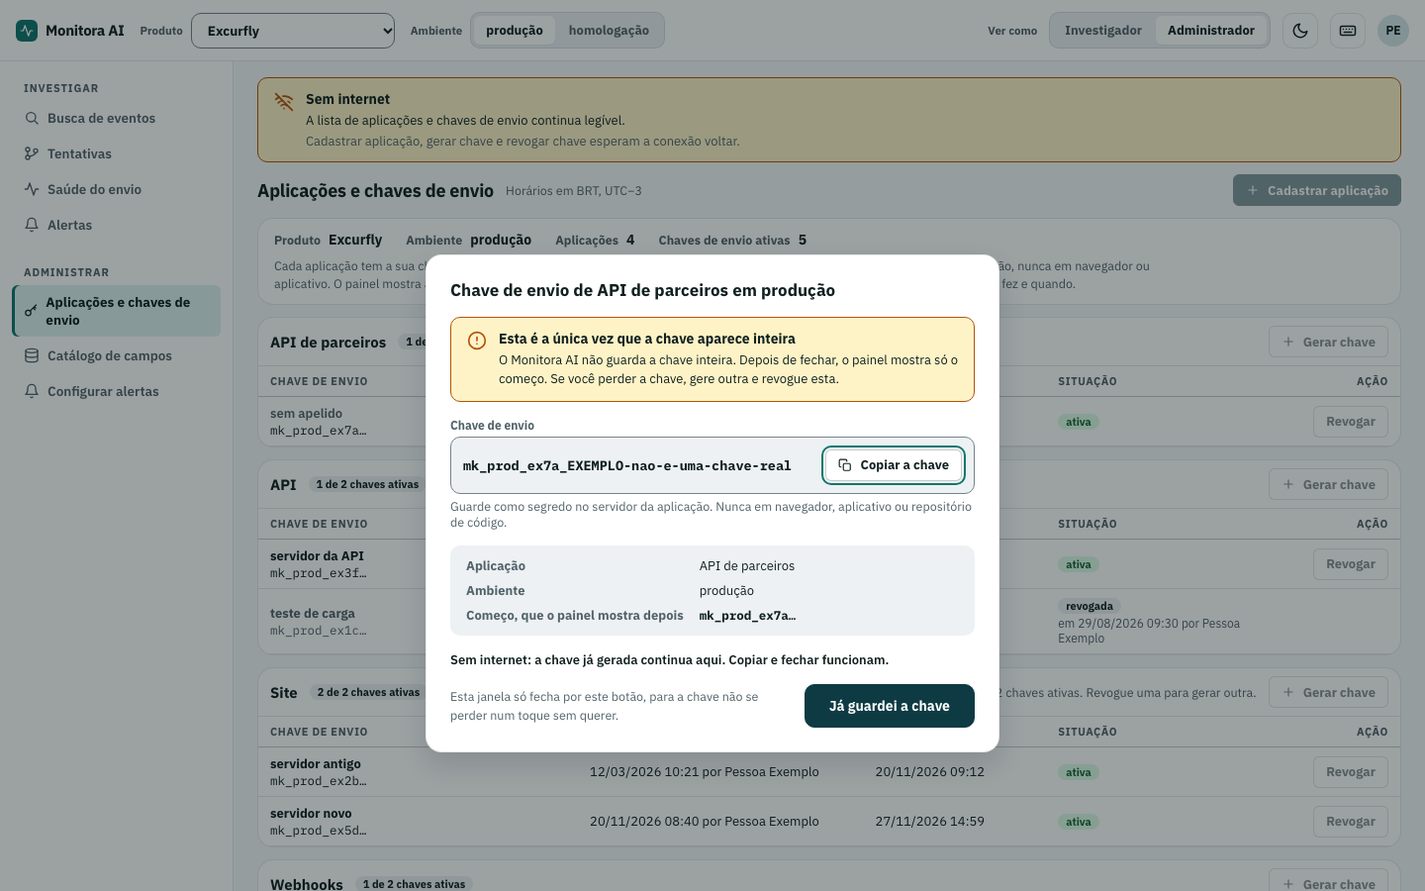
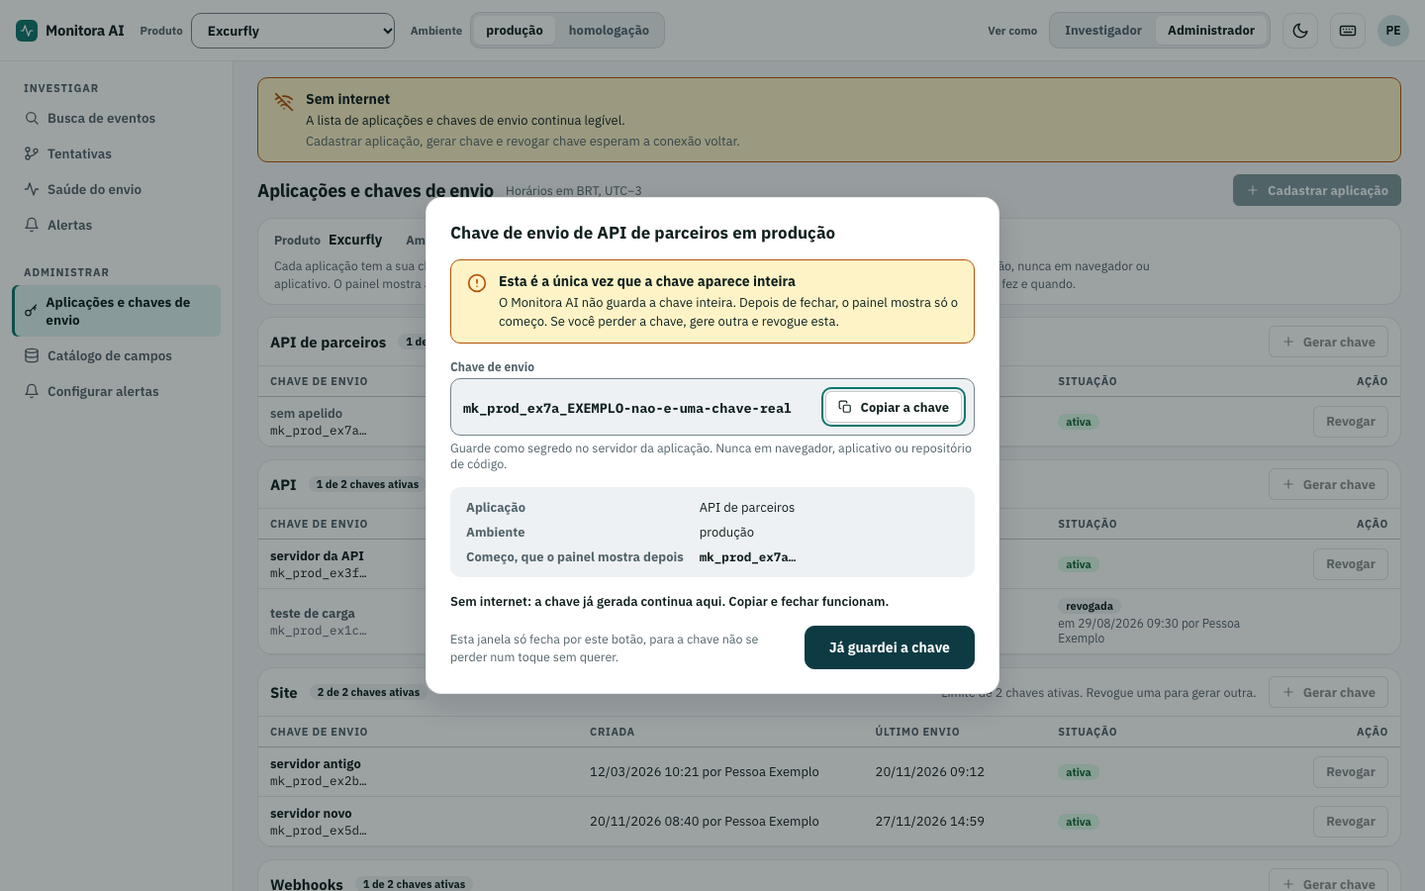
feat(prototipo): correções da auditoria do lote Administrar (#71, #72, #73)
- F1: botão apagado não age mais ao clique. BotaoDeIcone sem desestruturação
  com resto (um só _excluded, o de ui.jsx); Press espalha o resto antes da
  guarda; as ações de aplicações e chaves conferem de novo se podem agir.
- F2: JanelaDeDialogo presa à área visível, com altura máxima, miolo que rola
  e título e ações sempre à vista (prop acoes).
- F3: com uma janela de diálogo aberta, os atalhos da casca não disparam, e
  só a janela de cima responde ao teclado.
- F4: prints do vazio da tentativa refeitos; o período olhado (30 dias)
  contém a perda das 13:00, o texto está coerente.
- F5: "histórico" sai do catálogo de campos: "fica na auditoria, com quem
  fez e quando".

Changed region(s): [[0.2812, 0.2178, 0.7188, 0.8711]]

diff --git a/prototipos/monitora-ai/components/aplicacoes.jsx b/prototipos/monitora-ai/components/aplicacoes.jsx
@@ -240,6 +240,14 @@ const JanelaDePedirChave = ({ traduzir, aplicacao, nomeDoProduto, nomeDoAmbiente
       titulo={ehCadastro
         ? traduzir('aplicacaoNovaTitulo', { produto: nomeDoProduto, ambiente: nomeDoAmbiente })
         : traduzir('chaveNovaTitulo', { aplicacao: aplicacao.nome, ambiente: nomeDoAmbiente })}
+      acoes={(
+        <div style={ESTILO_DO_RODAPE_DA_JANELA}>
+          <Button variant="secondary" disabled={estado === 'disabled'} onClick={aoFechar}>{traduzir('cancelar')}</Button>
+          <Button variant="primary" loading={gerando} disabled={parado || semInternet} className={classeDoBotao} onClick={aoConfirmar}>
+            {gerando ? traduzir('chaveGerando') : traduzir(ehCadastro ? 'aplicacaoNovaConfirmar' : 'chaveNovaConfirmar')}
+          </Button>
+        </div>
+      )}
     >
       <p style={{ ...ESTILO_DO_TEXTO_DE_APOIO, fontSize: 13 }}>
         {ehCadastro ? traduzir('aplicacaoNovaAmbienteNota', { ambiente: nomeDoAmbiente }) : traduzir('chaveNovaNota')}
@@ -265,12 +273,6 @@ const JanelaDePedirChave = ({ traduzir, aplicacao, nomeDoProduto, nomeDoAmbiente
       />
       {ehCadastro && <p style={ESTILO_DO_TEXTO_DE_APOIO}>{traduzir('aplicacaoNovaProximoPasso')}</p>}
       {semInternet && <p role="status" style={ESTILO_DA_NOTA_DE_ESPERA}>{traduzir(ehCadastro ? 'aplicacaoNovaSemInternet' : 'chaveNovaSemInternet')}</p>}
-      <div style={ESTILO_DO_RODAPE_DA_JANELA}>
-        <Button variant="secondary" disabled={estado === 'disabled'} onClick={aoFechar}>{traduzir('cancelar')}</Button>
-        <Button variant="primary" loading={gerando} disabled={parado || semInternet} className={classeDoBotao} onClick={aoConfirmar}>
-          {gerando ? traduzir('chaveGerando') : traduzir(ehCadastro ? 'aplicacaoNovaConfirmar' : 'chaveNovaConfirmar')}
-        </Button>
-      </div>
     </JanelaDeDialogo>
   );
 };
@@ -285,20 +287,32 @@ const JanelaDaChaveGerada = ({ traduzir, nomeDaAplicacao, idDoAmbiente, nomeDoAm
 
   if (estado === 'error') {
     return (
-      <JanelaDeDialogo papel="alertdialog" largura={LARGURA_DA_JANELA_DA_CHAVE} titulo={titulo} aoFechar={aoFechar}>
+      <JanelaDeDialogo
+        papel="alertdialog" largura={LARGURA_DA_JANELA_DA_CHAVE} titulo={titulo} aoFechar={aoFechar}
+        acoes={(
+          <div style={ESTILO_DO_RODAPE_DA_JANELA}>
+            <Button variant="secondary" data-foco-inicial onClick={aoFechar}>{traduzir('fechar')}</Button>
+          </div>
+        )}
+      >
         <AvisoDeErro
           titulo={traduzir('chaveNovaFalhaTitulo')} corpo={traduzir('chaveNovaFalhaCorpo')}
           acao={<div><Button variant="secondary" compacto onClick={aoTentarDeNovo}>{traduzir('tentarDeNovo')}</Button></div>}
         />
-        <div style={ESTILO_DO_RODAPE_DA_JANELA}>
-          <Button variant="secondary" data-foco-inicial onClick={aoFechar}>{traduzir('fechar')}</Button>
-        </div>
       </JanelaDeDialogo>
     );
   }
 
   return (
-    <JanelaDeDialogo papel="alertdialog" largura={LARGURA_DA_JANELA_DA_CHAVE} titulo={titulo}>
+    <JanelaDeDialogo
+      papel="alertdialog" largura={LARGURA_DA_JANELA_DA_CHAVE} titulo={titulo}
+      acoes={(
+        <div style={{ ...ESTILO_DO_RODAPE_DA_JANELA, flexWrap: 'nowrap' }}>
+          <span style={{ ...ESTILO_DO_TEXTO_DE_APOIO, flex: 1 }}>{traduzir('chaveGeradaSoFechaPeloBotao')}</span>
+          <Button variant="primary" disabled={gerando || desabilitado} onClick={aoGuardar}>{traduzir('chaveGeradaFechar')}</Button>
+        </div>
+      )}
+    >
       <AvisoDeAtencao titulo={traduzir('chaveGeradaAvisoTitulo')} corpo={traduzir('chaveGeradaAvisoCorpo')} />
       <div style={{ display: 'flex', flexDirection: 'column', gap: 'var(--space-1)' }}>
         <span style={{ fontSize: 12, fontWeight: 700, color: 'var(--muted)' }}>{traduzir('chaveGeradaRotulo')}</span>
@@ -328,10 +342,6 @@ const JanelaDaChaveGerada = ({ traduzir, nomeDaAplicacao, idDoAmbiente, nomeDoAm
         [traduzir('chaveFatoComeco'), gerando ? '…' : <CodigoEmDestaque>{traduzir('chaveComeco', { comeco: comecoDaChave(idDoAmbiente, chaveGerada) })}</CodigoEmDestaque>],
       ]} />
       {estado === 'offline' && <p role="status" style={ESTILO_DA_NOTA_DE_ESPERA}>{traduzir('chaveGeradaSemInternet')}</p>}
-      <div style={{ ...ESTILO_DO_RODAPE_DA_JANELA, flexWrap: 'nowrap' }}>
-        <span style={{ ...ESTILO_DO_TEXTO_DE_APOIO, flex: 1 }}>{traduzir('chaveGeradaSoFechaPeloBotao')}</span>
-        <Button variant="primary" disabled={gerando || desabilitado} onClick={aoGuardar}>{traduzir('chaveGeradaFechar')}</Button>
-      </div>
     </JanelaDeDialogo>
   );
 };
@@ -347,6 +357,14 @@ const JanelaDeRevogar = ({ traduzir, aplicacao, chave, idDoAmbiente, nomeDoProdu
     <JanelaDeDialogo
       papel="alertdialog" largura={LARGURA_DA_JANELA_DE_PEDIDO} aoFechar={aoFechar}
       titulo={traduzir('chaveRevogarTitulo', { chave: nomeDaChave(traduzir, idDoAmbiente, chave), aplicacao: aplicacao.nome, produto: nomeDoProduto, ambiente: nomeDoAmbiente })}
+      acoes={(
+        <div style={ESTILO_DO_RODAPE_DA_JANELA}>
+          <Button variant="secondary" data-foco-inicial disabled={desabilitado} onClick={aoFechar}>{traduzir('cancelar')}</Button>
+          <Button variant="danger" loading={revogando} disabled={desabilitado || semInternet} className={classeDoBotao} onClick={aoRevogar}>
+            {revogando ? traduzir('chaveRevogando') : traduzir('chaveRevogarConfirmar')}
+          </Button>
+        </div>
+      )}
     >
       {estado === 'error' && (
         <AvisoDeErro
@@ -364,12 +382,6 @@ const JanelaDeRevogar = ({ traduzir, aplicacao, chave, idDoAmbiente, nomeDoProdu
       ]} />
       <p style={{ ...ESTILO_DO_TEXTO_DE_APOIO, fontSize: 13 }}>{traduzir('chaveRevogarNaoVolta')}</p>
       {semInternet && <p role="status" style={ESTILO_DA_NOTA_DE_ESPERA}>{traduzir('chaveRevogarSemInternet')}</p>}
-      <div style={ESTILO_DO_RODAPE_DA_JANELA}>
-        <Button variant="secondary" data-foco-inicial disabled={desabilitado} onClick={aoFechar}>{traduzir('cancelar')}</Button>
-        <Button variant="danger" loading={revogando} disabled={desabilitado || semInternet} className={classeDoBotao} onClick={aoRevogar}>
-          {revogando ? traduzir('chaveRevogando') : traduzir('chaveRevogarConfirmar')}
-        </Button>
-      </div>
     </JanelaDeDialogo>
   );
 };
@@ -445,9 +457,20 @@ const TelaAplicacoes = ({ lang, estado, params }) => {
 
   const lembrarQuemAbriu = () => { quemAbriuAJanelaRef.current = document.activeElement; };
   const voltarALista = () => navigate(rotasDoPapel.aplicacoes, ondeEstou);
-  const abrirCadastro = () => { lembrarQuemAbriu(); navigate(rotasDoPapel.aplicacaoNova, { ...ondeEstou, passo: PASSO_NOVA }); };
-  const abrirPedidoDeChave = (aplicacao) => { lembrarQuemAbriu(); navigate(rotasDoPapel.chave, { ...ondeEstou, aplicacao: aplicacao.id, chave: PASSO_NOVA }); };
+  /* Cada ação confere de novo se pode agir: o botão apagado é a primeira guarda, não a única. */
+  const pedidoEmAndamento = estado === 'loading' && Boolean(janela);
+  const abrirCadastro = () => {
+    if (indisponivel) return;
+    lembrarQuemAbriu();
+    navigate(rotasDoPapel.aplicacaoNova, { ...ondeEstou, passo: PASSO_NOVA });
+  };
+  const abrirPedidoDeChave = (aplicacao) => {
+    if (indisponivel || aplicacao.chavesAtivas >= LIMITE_DE_CHAVES_ATIVAS) return;
+    lembrarQuemAbriu();
+    navigate(rotasDoPapel.chave, { ...ondeEstou, aplicacao: aplicacao.id, chave: PASSO_NOVA });
+  };
   const abrirRevogar = (aplicacao, chave) => {
+    if (indisponivel) return;
     lembrarQuemAbriu();
     navigate(rotasDoPapel.passoDaChave, { ...ondeEstou, aplicacao: aplicacao.id, chave: chave.id, passo: PASSO_REVOGAR });
   };
@@ -463,7 +486,7 @@ const TelaAplicacoes = ({ lang, estado, params }) => {
     document.querySelector('[aria-modal="true"] input')?.focus();
   };
   const cadastrar = () => {
-    if (indisponivel) return;
+    if (indisponivel || pedidoEmAndamento) return;
     const nomeDaAplicacao = nomeEscrito.trim();
     if (!nomeDaAplicacao) { recusarONome(traduzir('aplicacaoNovaErroVazio')); return; }
     const codigoDaAplicacao = codigoDoNomeDaAplicacao(nomeDaAplicacao);
@@ -471,10 +494,13 @@ const TelaAplicacoes = ({ lang, estado, params }) => {
     if (aplicacaoRepetida) { recusarONome(traduzir('aplicacaoNovaErroRepetido', { aplicacao: aplicacaoRepetida.nome, ambiente: nomeDoAmbiente })); return; }
     gerarAChave(codigoDaAplicacao, nomeDaAplicacao);
   };
-  const pedirMaisUmaChave = () => { if (!indisponivel) gerarAChave(aplicacaoDoEndereco.id, null); };
-  const guardarAChave = () => navigate(rotasDoPapel.chave, { ...ondeEstou, aplicacao: idDaAplicacao, chave: idDaChave });
+  const pedirMaisUmaChave = () => { if (!indisponivel && !pedidoEmAndamento) gerarAChave(aplicacaoDoEndereco.id, null); };
+  const guardarAChave = () => {
+    if (desabilitado || pedidoEmAndamento) return;
+    navigate(rotasDoPapel.chave, { ...ondeEstou, aplicacao: idDaAplicacao, chave: idDaChave });
+  };
   const revogar = () => {
-    if (indisponivel) return;
+    if (indisponivel || pedidoEmAndamento) return;
     navigate(rotasDoPapel.passoDaChave, { ...ondeEstou, aplicacao: idDaAplicacao, chave: idDaChave, passo: PASSO_REVOGADA });
   };
 

diff --git a/prototipos/monitora-ai/components/ui.jsx b/prototipos/monitora-ai/components/ui.jsx
@@ -21,6 +21,9 @@ const Press = React.forwardRef(({ children, onClick, style, className, disabled,
     <div
       ref={referencia}
       role="button"
+      className={className}
+      /* O que sobra vem antes: nada do que quem chama passar troca a guarda do apagado. */
+      {...rest}
       tabIndex={disabled ? -1 : 0}
       onPointerDown={() => !disabled && setDown(true)}
       onPointerUp={() => setDown(false)}
@@ -30,8 +33,6 @@ const Press = React.forwardRef(({ children, onClick, style, className, disabled,
         if ((evento.key === 'Enter' || evento.key === ' ') && !disabled && onClick) { evento.preventDefault(); onClick(); }
       }}
       aria-disabled={disabled || undefined}
-      className={className}
-      {...rest}
       style={{
         cursor: disabled ? 'not-allowed' : 'pointer',
         opacity: disabled ? 0.5 : 1,
@@ -444,7 +445,12 @@ const AvisoDeAtencao = ({ titulo, corpo, acao, tom = 'atencao' }) => {
    pessoa não pode perder por um toque sem querer. Devolver o foco é de quem abriu. */
 const SELETOR_DE_FOCAVEIS = 'input:not([disabled]), select:not([disabled]), textarea:not([disabled]), button:not([disabled]), [tabindex="0"]';
 
-const JanelaDeDialogo = ({ titulo, largura = 480, papel = 'dialog', aoFechar, children }) => {
+/* O véu fica preso à área que a pessoa vê (não à página inteira), e a janela nunca passa
+   dela: o título e as `acoes` (os botões do rodapé) ficam sempre à vista e o miolo rola por
+   dentro. Abaixo da altura mínima, quem rola é o véu. */
+const ALTURA_MINIMA_DA_JANELA_DE_DIALOGO = 320;
+
+const JanelaDeDialogo = ({ titulo, largura = 480, papel = 'dialog', aoFechar, acoes, children }) => {
   const janelaRef = useRef(null);
   const aoFecharRef = useRef(aoFechar);
   const idDoTitulo = React.useId();
@@ -454,6 +460,9 @@ const JanelaDeDialogo = ({ titulo, largura = 480, papel = 'dialog', aoFechar, ch
     const janela = janelaRef.current;
     if (!janela.contains(document.activeElement)) (janela.querySelector('[data-foco-inicial]') || janela).focus();
     const teclar = (eventoDeTeclado) => {
+      /* Só a janela de cima responde ao teclado: um Esc nunca fecha duas. */
+      const janelasAbertas = document.querySelectorAll('[aria-modal="true"]');
+      if (janelasAbertas[janelasAbertas.length - 1] !== janela) return;
       if (eventoDeTeclado.key === 'Escape' && aoFecharRef.current) { aoFecharRef.current(); return; }
       if (eventoDeTeclado.key !== 'Tab') return;
       const focaveis = [...janela.querySelectorAll(SELETOR_DE_FOCAVEIS)];
@@ -471,21 +480,29 @@ const JanelaDeDialogo = ({ titulo, largura = 480, papel = 'dialog', aoFechar, ch
 
   return (
     <div style={{
-      position: 'absolute', inset: 0, background: 'var(--veu)', zIndex: 20,
-      display: 'grid', placeItems: 'center', padding: 'var(--space-4)',
+      position: 'fixed', inset: 0, background: 'var(--veu)', zIndex: 20,
+      display: 'flex', padding: 'var(--space-4)', overflowY: 'auto',
     }} onClick={() => aoFechar && aoFechar()}>
       <div
         ref={janelaRef} role={papel} aria-modal="true" aria-labelledby={idDoTitulo} tabIndex={-1}
         onClick={(eventoDeClique) => eventoDeClique.stopPropagation()}
         style={{
-          width: largura, maxWidth: '100%', background: 'var(--surface)', borderRadius: 'var(--radius-lg)', boxShadow: 'var(--shadow-lg)',
+          width: largura, maxWidth: '100%', maxHeight: `max(100%, ${ALTURA_MINIMA_DA_JANELA_DE_DIALOGO}px)`, margin: 'auto',
+          background: 'var(--surface)', borderRadius: 'var(--radius-lg)', boxShadow: 'var(--shadow-lg)',
           border: '1px solid var(--border)', padding: 'var(--space-5)', display: 'flex', flexDirection: 'column', gap: 'var(--space-4)',
           /* O foco na janela inteira é só o ponto de partida do teclado: não ganha contorno. */
           outline: 'none',
         }}
       >
         <h2 id={idDoTitulo} style={{ margin: 0, fontSize: 17, fontWeight: 800, lineHeight: 1.3 }}>{titulo}</h2>
-        {children}
+        {/* O miolo rola; a folga em volta (devolvida pela margem negativa) guarda o contorno de foco do corte. */}
+        <div style={{
+          display: 'flex', flexDirection: 'column', gap: 'var(--space-4)', minHeight: 0, overflowY: 'auto',
+          margin: 'calc(-1 * var(--space-1)) calc(-1 * var(--space-5))', padding: 'var(--space-1) var(--space-5)',
+        }}>
+          {children}
+        </div>
+        {acoes}
       </div>
     </div>
   );

diff --git a/prototipos/monitora-ai/components/painel-casca.jsx b/prototipos/monitora-ai/components/painel-casca.jsx
@@ -112,10 +112,13 @@ const RotuloDoControle = ({ children, paraId }) => (
   <label htmlFor={paraId} style={{ fontSize: 11.5, fontWeight: 700, color: 'var(--muted)' }}>{children}</label>
 );
 
-const BotaoDeIcone = ({ rotulo, icone: Icone, aoClicar, disabled, className, ...resto }) => (
+/* Sem desestruturação com resto: cada script do protótipo roda no escopo global, e o
+   auxiliar que o Babel gera para o resto (`_excluded`) só pode nascer em `ui.jsx`; um
+   segundo, aqui, trocaria a lista de `Press`. O que o botão repassa vem pelo nome. */
+const BotaoDeIcone = ({ rotulo, icone: Icone, aoClicar, disabled, className, abreJanela }) => (
   <Press
     aria-label={rotulo} title={rotulo} onClick={aoClicar} disabled={disabled}
-    className={className ? `botao ${className}` : 'botao'} {...resto}
+    className={className ? `botao ${className}` : 'botao'} aria-haspopup={abreJanela ? 'dialog' : undefined}
     style={{
       width: LADO_DO_BOTAO_DE_ICONE, height: LADO_DO_BOTAO_DE_ICONE, display: 'grid', placeItems: 'center',
       borderRadius: 'var(--radius-md)', border: '1px solid var(--border)',
@@ -174,7 +177,7 @@ const BarraDoPainel = ({ traduzir, params, papel, desabilitado, abrirAtalhos, ao
           rotulo={temaEscuro ? traduzir('cascaTemaClaro') : traduzir('cascaTemaEscuro')}
           icone={temaEscuro ? IconSun : IconMoon} aoClicar={pedirTrocaDeTema}
         />
-        <BotaoDeIcone rotulo={traduzir('cascaAtalhos')} icone={IconKeyboard} aoClicar={abrirAtalhos} aria-haspopup="dialog" />
+        <BotaoDeIcone rotulo={traduzir('cascaAtalhos')} icone={IconKeyboard} aoClicar={abrirAtalhos} abreJanela />
         <span aria-label={PESSOA_EXEMPLO.nome} title={PESSOA_EXEMPLO.nome} style={{
           width: 32, height: 32, borderRadius: 'var(--radius-full)', display: 'grid', placeItems: 'center',
           background: 'var(--primary-soft)', color: 'var(--fg)', fontSize: 12, fontWeight: 800,
@@ -189,7 +192,10 @@ const JanelaDeAtalhos = ({ traduzir, fechar }) => {
     ['/', 'atalhoBusca'], ['↑ ↓', 'atalhoSetas'], ['Enter', 'atalhoEnter'], ['Esc', 'atalhoEsc'], ['?', 'atalhoAjuda'],
   ];
   return (
-    <JanelaDeDialogo titulo={traduzir('atalhosTitulo')} largura={LARGURA_DA_JANELA_DE_ATALHOS} aoFechar={fechar}>
+    <JanelaDeDialogo
+      titulo={traduzir('atalhosTitulo')} largura={LARGURA_DA_JANELA_DE_ATALHOS} aoFechar={fechar}
+      acoes={<Button variant="secondary" data-foco-inicial onClick={fechar}>{traduzir('fechar')}</Button>}
+    >
       <dl style={{ margin: 0, display: 'grid', gridTemplateColumns: 'auto 1fr', gap: 'var(--space-2) var(--space-4)', alignItems: 'center' }}>
         {atalhos.map(([tecla, chaveDoTexto]) => (
           <React.Fragment key={chaveDoTexto}>
@@ -199,7 +205,6 @@ const JanelaDeAtalhos = ({ traduzir, fechar }) => {
         ))}
       </dl>
       <p style={{ margin: 0, fontSize: 12.5, color: 'var(--muted)', lineHeight: 1.45 }}>{traduzir('atalhosNota')}</p>
-      <Button variant="secondary" data-foco-inicial onClick={fechar}>{traduzir('fechar')}</Button>
     </JanelaDeDialogo>
   );
 };
@@ -230,6 +235,8 @@ const CascaDoPainel = ({ traduzir, estado, params, papel, aoMudar, campoDeBuscaR
     const teclar = (eventoDeTeclado) => {
       if (eventoDeTeclado.key === 'Escape') return;
       if (ehCampoDeDigitar(document.activeElement)) return;
+      /* Com uma janela de diálogo aberta, o teclado é dela: os atalhos da casca esperam. */
+      if (document.querySelector('[aria-modal="true"]')) return;
       if (eventoDeTeclado.key === '/') { eventoDeTeclado.preventDefault(); campoDeBuscaRef?.current?.focus(); }
       if (eventoDeTeclado.key === '?') { eventoDeTeclado.preventDefault(); abrirAtalhos(); }
     };

diff --git a/prototipos/monitora-ai/index.html b/prototipos/monitora-ai/index.html
@@ -444,24 +444,24 @@ label:focus-within:has(.campo-sem-moldura) { outline: 2px solid var(--accent); o
 
   <!-- Ordem obrigatoria: sao scripts globais, cada camada so enxerga as anteriores.
        Tela nova entra depois de painel.jsx e antes de app.jsx. -->
-  <script type="text/babel" src="components/i18n.jsx?v=22"></script>
-  <script type="text/babel" src="components/data.jsx?v=22"></script>
-  <script type="text/babel" src="components/icons.jsx?v=22"></script>
-  <script type="text/babel" src="components/ui.jsx?v=22"></script>
-  <script type="text/babel" src="components/device.jsx?v=22"></script>
-  <script type="text/babel" src="components/router.jsx?v=22"></script>
-  <script type="text/babel" src="components/visoes.jsx?v=22"></script>
-  <script type="text/babel" src="components/painel.jsx?v=22"></script>
-  <script type="text/babel" src="components/entrada.jsx?v=22"></script>
-  <script type="text/babel" src="components/painel-casca.jsx?v=22"></script>
-  <script type="text/babel" src="components/busca.jsx?v=22"></script>
-  <script type="text/babel" src="components/evento.jsx?v=22"></script>
-  <script type="text/babel" src="components/tentativa.jsx?v=22"></script>
-  <script type="text/babel" src="components/aplicacoes.jsx?v=22"></script>
-  <script type="text/babel" src="components/catalogo.jsx?v=22"></script>
-  <script type="text/babel" src="components/saude.jsx?v=22"></script>
-  <script type="text/babel" src="components/alerta.jsx?v=22"></script>
-  <script type="text/babel" src="components/app.jsx?v=22"></script>
+  <script type="text/babel" src="components/i18n.jsx?v=23"></script>
+  <script type="text/babel" src="components/data.jsx?v=23"></script>
+  <script type="text/babel" src="components/icons.jsx?v=23"></script>
+  <script type="text/babel" src="components/ui.jsx?v=23"></script>
+  <script type="text/babel" src="components/device.jsx?v=23"></script>
+  <script type="text/babel" src="components/router.jsx?v=23"></script>
+  <script type="text/babel" src="components/visoes.jsx?v=23"></script>
+  <script type="text/babel" src="components/painel.jsx?v=23"></script>
+  <script type="text/babel" src="components/entrada.jsx?v=23"></script>
+  <script type="text/babel" src="components/painel-casca.jsx?v=23"></script>
+  <script type="text/babel" src="components/busca.jsx?v=23"></script>
+  <script type="text/babel" src="components/evento.jsx?v=23"></script>
+  <script type="text/babel" src="components/tentativa.jsx?v=23"></script>
+  <script type="text/babel" src="components/aplicacoes.jsx?v=23"></script>
+  <script type="text/babel" src="components/catalogo.jsx?v=23"></script>
+  <script type="text/babel" src="components/saude.jsx?v=23"></script>
+  <script type="text/babel" src="components/alerta.jsx?v=23"></script>
+  <script type="text/babel" src="components/app.jsx?v=23"></script>
 
   <script type="text/babel">
     const root = ReactDOM.createRoot(document.getElementById('root'));

diff --git a/prototipos/monitora-ai/components/i18n.jsx b/prototipos/monitora-ai/components/i18n.jsx
@@ -532,7 +532,7 @@ const TRANSLATIONS = {
     catalogoFatoPorPalavras: 'Com busca por palavras',
     catalogoFatoNaoDeclarados: 'Não declarados em {ambiente}',
     catalogoContaComLimite: '{quantidade} de {limite}',
-    catalogoComoFunciona: 'Campo declarado é campo pesquisável: filtra a busca de eventos por busca garantida. Campo não declarado aparece ao abrir o evento, mas não filtra. Declarar vale para os eventos novos; os antigos não são reprocessados. Cada declaração fica no histórico e na auditoria, com quem fez e quando.',
+    catalogoComoFunciona: 'Campo declarado é campo pesquisável: filtra a busca de eventos por busca garantida. Campo não declarado aparece ao abrir o evento, mas não filtra. Declarar vale para os eventos novos; os antigos não são reprocessados. Cada declaração fica na auditoria, com quem fez e quando.',
     catalogoSoLeitura: 'Você está vendo como Investigador: aqui o catálogo de campos é só para ler. Quem declara um campo é o Administrador do produto.',
     catalogoNaoDeclaradosTitulo: 'Campos não declarados',
     catalogoNaoDeclaradosNota: 'Atributos que as aplicações enviaram em {ambiente} e que ainda não foram declarados. Aparecem ao abrir o evento; só filtram depois de declarados.',
@@ -596,7 +596,7 @@ const TRANSLATIONS = {
     catalogoDeclararFalhaCorpo: 'O servidor não respondeu. Nada foi declarado, e o que você escolheu continua aqui.',
     catalogoDeclararSemInternet: 'Sem internet: declarar espera a conexão voltar. O que você escolheu continua aqui.',
     catalogoDeclaradoTitulo: '{campo} declarado: rápido desde {horario}',
-    catalogoDeclaradoCorpo: 'Os eventos novos já filtram por {campo} ({tipo}; {buscas}). Os anteriores às {horario} só saem por busca lenta, até 1 dia por vez; nada foi reprocessado. A declaração ficou no histórico e na auditoria, com quem fez e quando.',
+    catalogoDeclaradoCorpo: 'Os eventos novos já filtram por {campo} ({tipo}; {buscas}). Os anteriores às {horario} só saem por busca lenta, até 1 dia por vez; nada foi reprocessado. A declaração ficou na auditoria, com quem fez e quando.',
     catalogoDeclaradoCorrelacao: 'Como campo de correlação, ele liga eventos desde as {horario}: podem faltar eventos antigos nas tentativas.',
 
     // Saúde do envio (os dois papéis, só leitura): as aplicações

diff --git a/prototipos/monitora-ai/components/catalogo.jsx b/prototipos/monitora-ai/components/catalogo.jsx
@@ -366,7 +366,17 @@ const JanelaDeDeclarar = ({ traduzir, campo, declaracaoPedida, nomeDoProduto, ca
   const confirmar = () => aoDeclarar({ tipo: tipoEscolhido, buscas: [...buscasDoTipo.fixas, ...buscasOpcionais], papel: papelEscolhido });
 
   return (
-    <JanelaDeDialogo largura={LARGURA_DA_JANELA_DE_DECLARAR} aoFechar={aoFechar} titulo={traduzir('catalogoDeclararTitulo', { campo: campo.nome, produto: nomeDoProduto })}>
+    <JanelaDeDialogo
+      largura={LARGURA_DA_JANELA_DE_DECLARAR} aoFechar={aoFechar} titulo={traduzir('catalogoDeclararTitulo', { campo: campo.nome, produto: nomeDoProduto })}
+      acoes={(
+        <div style={ESTILO_DO_RODAPE_DA_JANELA}>
+          <Button variant="secondary" disabled={estado === 'disabled'} onClick={aoFechar}>{traduzir('cancelar')}</Button>
+          <Button variant="primary" loading={declarando} disabled={parado || semInternet} className={classeDoBotao} onClick={confirmar}>
+            {declarando ? traduzir('catalogoDeclarando') : traduzir('catalogoDeclararConfirmar')}
+          </Button>
+        </div>
+      )}
+    >
       {estado === 'error' && (
         <AvisoDeErro
           titulo={traduzir('catalogoDeclararFalhaTitulo')} corpo={traduzir('catalogoDeclararFalhaCorpo')}
@@ -444,12 +454,6 @@ const JanelaDeDeclarar = ({ traduzir, campo, declaracaoPedida, nomeDoProduto, ca
         )}
       />
       {semInternet && <p role="status" style={ESTILO_DA_NOTA_DE_ESPERA}>{traduzir('catalogoDeclararSemInternet')}</p>}
-      <div style={ESTILO_DO_RODAPE_DA_JANELA}>
-        <Button variant="secondary" disabled={estado === 'disabled'} onClick={aoFechar}>{traduzir('cancelar')}</Button>
-        <Button variant="primary" loading={declarando} disabled={parado || semInternet} className={classeDoBotao} onClick={confirmar}>
-          {declarando ? traduzir('catalogoDeclarando') : traduzir('catalogoDeclararConfirmar')}
-        </Button>
-      </div>
     </JanelaDeDialogo>
   );
 };
